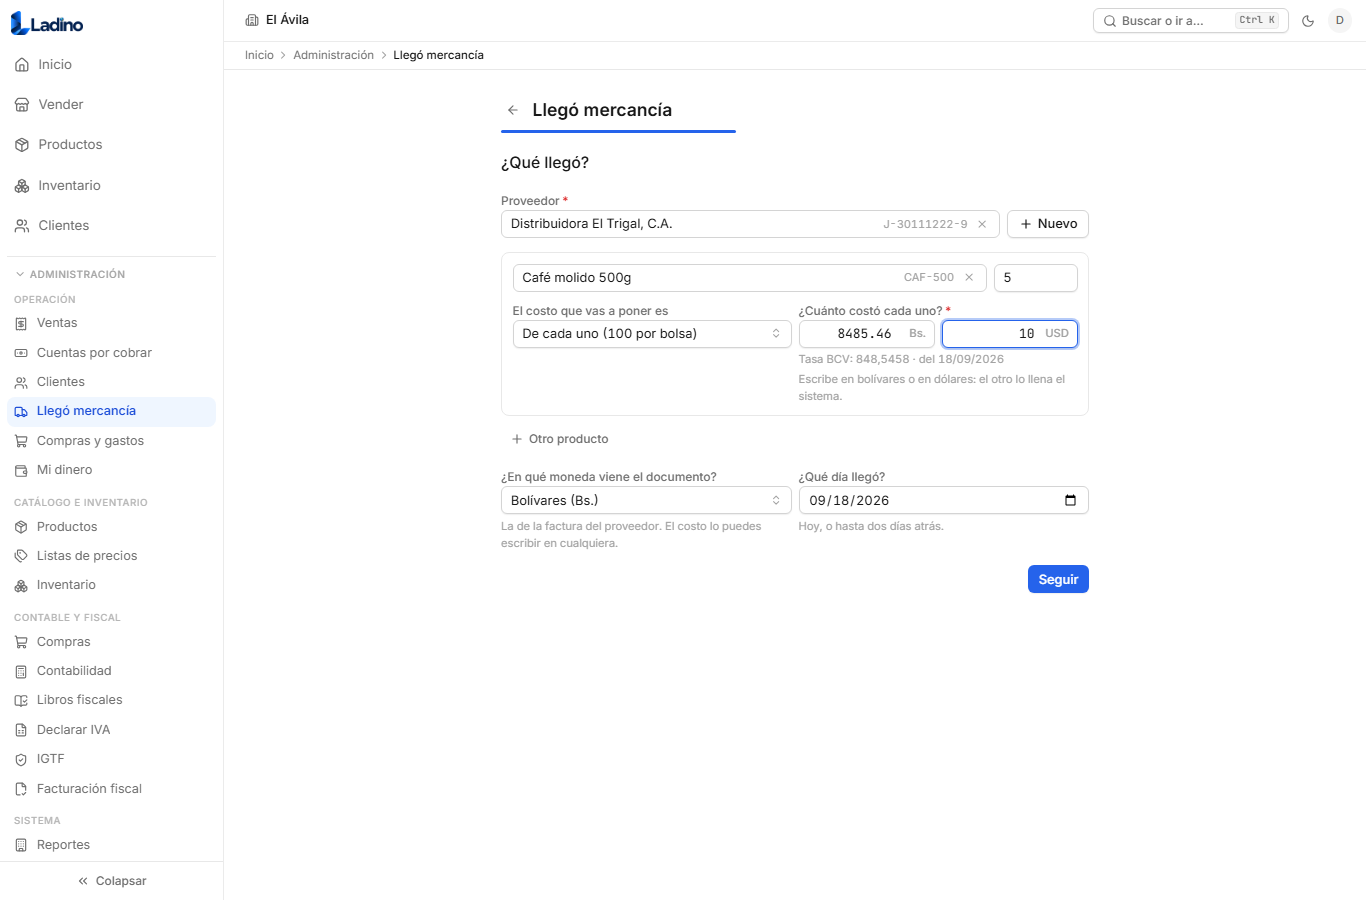
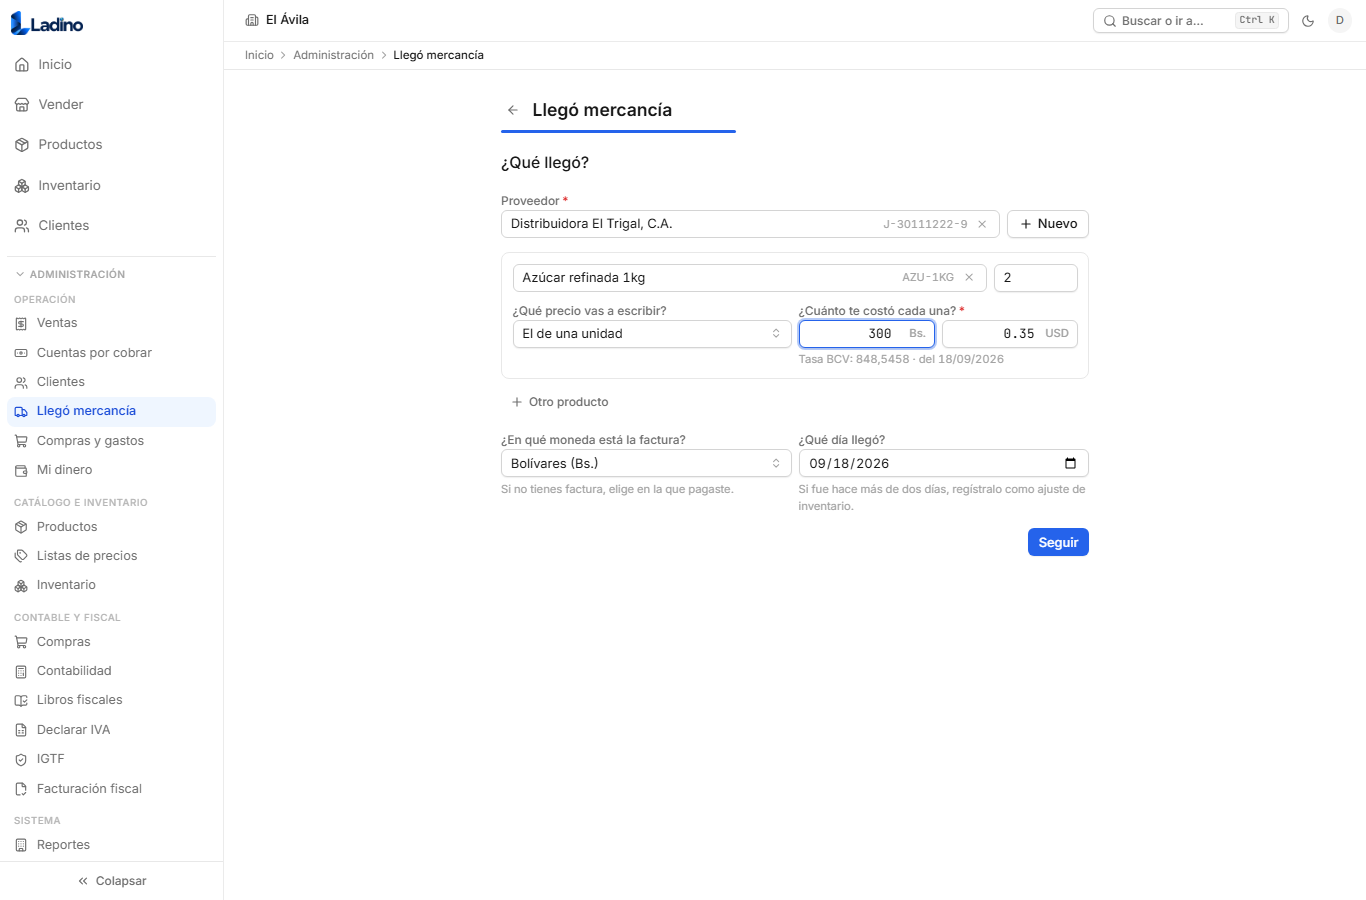
docs(handoff): the dead end nobody had walked into
Records what the owner found on the screen and what it cost: the payment dropdown opened on
an empty list because the door built its own instead of using the app's rule, the same shape
of mistake as the warehouses one in delivery (i).

Two new screenshots and the QA table: 16 more checks in `23-pago`, run on purpose with the
payment-methods table empty — the real production case — and verified against the database:
the payment kept its method, kept an account, and the money left it.

diff --git a/docs/00_GOVERNANCE/HANDOFF.md b/docs/00_GOVERNANCE/HANDOFF.md
@@ -129,6 +129,38 @@ la puerta, `POST /v1/arrivals`, que es justo lo que ADR-0066 vino a decir.
   `cd /opt/apps/ladino && git pull && docker compose up -d --build`, no existen `/v1/arrivals`,
   `?pending=1`, el cierre de pedido ni ninguna de las pantallas nuevas.
 
+## Los textos de la puerta, y un callejón sin salida que nadie había pisado
+
+El dueño reescribió los textos de «¿Qué llegó?» —las preguntas piden lo que la persona sabe, no
+lo que el sistema guarda— y, probándola, encontró el fallo de verdad: **al decir «Sí, ya la
+pagué», el desplegable de con qué pagó salía VACÍO**, y «Seguir» no se encendía nunca.
+
+La causa no era el desplegable: era de dónde sacaba la lista. La puerta ofrecía **solo las formas
+de pago CONFIGURADAS** del negocio, y `payment_methods` está **vacía en las ocho empresas de
+producción** y en la demo. El resto de la aplicación nunca tuvo el problema porque todas usan la
+misma regla —las configuradas primero, y detrás las formas base que ninguna cubra (decisión del
+dueño, 2026-09-05)—; la puerta era la única que no la usaba. Es el mismo error que ya se cometió
+con `/v1/warehouses` en la entrega (i): **construir una lista a mano en vez de usar la del resto
+de la casa.**
+
+Arreglado subiendo `FORMAS_DE_COMPRA` y `esFormaDeCompra` de «Compras y gastos» a
+`components/formas-de-pago.ts`, con `opcionesDePagoDeCompra()` al lado, y usándolos en las dos
+pantallas. Ahora salen las nueve formas del `PurchaseInstrument` —con Tarjeta y «Otra», que el
+cobro no ofrece, y sin Cashea, que financia al consumidor— y la lista **nunca puede salir vacía**.
+
+Sin forma configurada el dinero sale de «Sin asignar», igual que en el POS (ADR-0062 §1); para que
+salga de una cuenta con nombre hay que configurar la forma en «Mi dinero». No es de esta entrega.
+
+Los textos: «¿Qué precio vas a escribir?» con «El de una unidad / El total de todas las unidades»;
+«¿Cuánto te costó cada una?» / «¿Cuánto te costaron todas?»; «¿En qué moneda está la factura?
+Si no tienes factura, elige en la que pagaste»; la fecha remite al ajuste de inventario cuando
+pasan de dos días; y **se quitó una de las dos frases de ayuda que decían lo mismo** bajo los
+campos de importe.
+
+**QA de pantalla:** 16 comprobaciones más (guion `23-pago`), 0 hallazgos, con la tabla de formas
+vacía a propósito —el caso real de producción— y comprobando contra la base que el pago quedó con
+su forma, con su cuenta, y que el dinero salió: 1.500 → 900.
+
 ## Aplicación en producción — 2026-09-18, a petición del dueño
 
 Las **seis** migraciones pendientes (67 a 72) se aplicaron a `jwaszxsxzudekduwbgzu` por la

diff --git a/docs/08_UX/capturas-llego-mercancia/README.md b/docs/08_UX/capturas-llego-mercancia/README.md
@@ -10,6 +10,7 @@ y asevera lo que la persona ve; las capturas son el rastro, no la prueba — la 
 | (ii) el dinero se escribe una vez | 15 | 0 |
 | (iii) del pedido a la llegada | 26 | 0 |
 | (iii) el paso 0 de la puerta | 8 | 0 |
+| textos nuevos y «¿Con qué la pagaste?» | 16 | 0 |
 
 Los tres últimos comprueban además la PROPAGACIÓN contra la base, no contra la pantalla: kardex,
 mayor, libro de compras, deuda con el proveedor y los invariantes que cruzan módulos.
@@ -29,4 +30,5 @@ mayor, libro de compras, deuda con el proveedor y los invariantes que cruzan mó
 | `11-por-recibir.png` | La bandeja «Por recibir» en el mostrador, con sus dos verbos |
 | `12-recepcion-a-ciegas.png` | La puerta abierta desde un pedido: se cuenta, no se valora |
 | `13-no-va-a-llegar.png` | Cerrar un pedido exige decir por qué; sin motivo el botón está apagado |
-| `14-costo-en-dolares.png` | El costo escrito en dólares sobre una compra en bolívares, con la tasa que lo convierte |
+| `14-costo-en-dolares.png` | Los dos campos de importe, con la tasa que convierte y una sola frase de ayuda |
+| `15-con-que-la-pagaste.png` | Con qué se le pagó al proveedor: las nueve formas, con la tabla de formas configuradas VACÍA |
